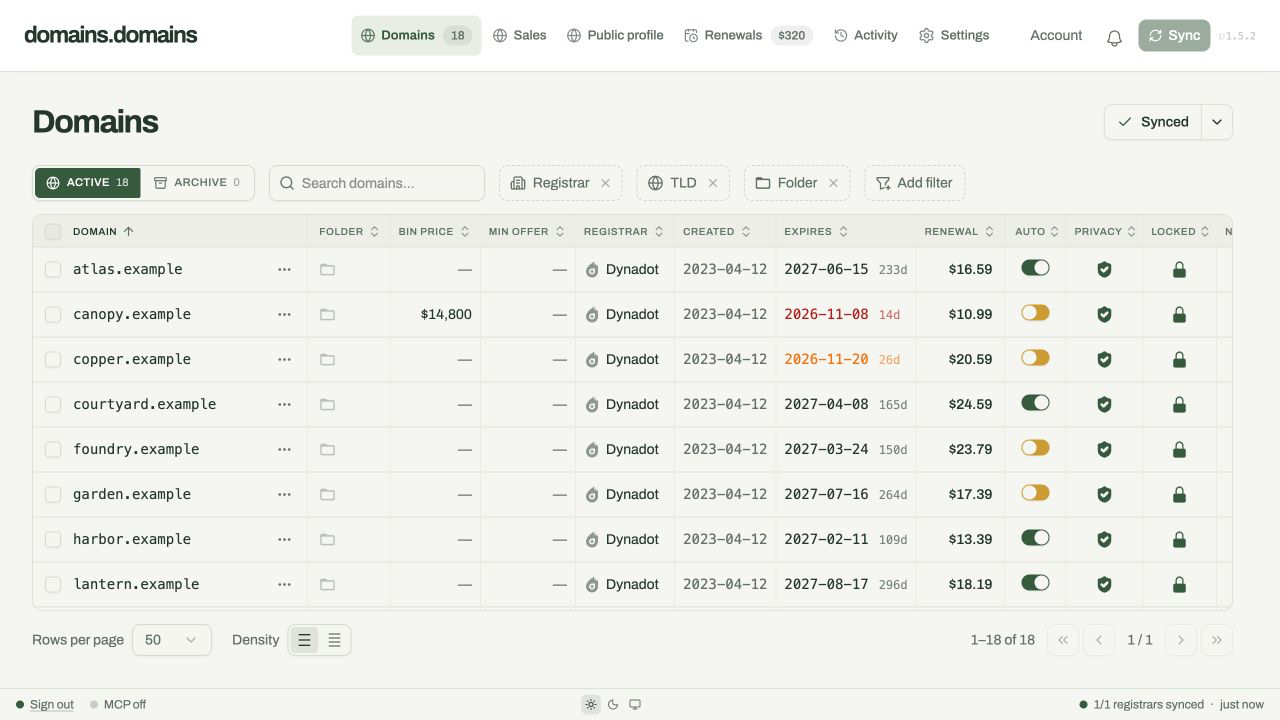
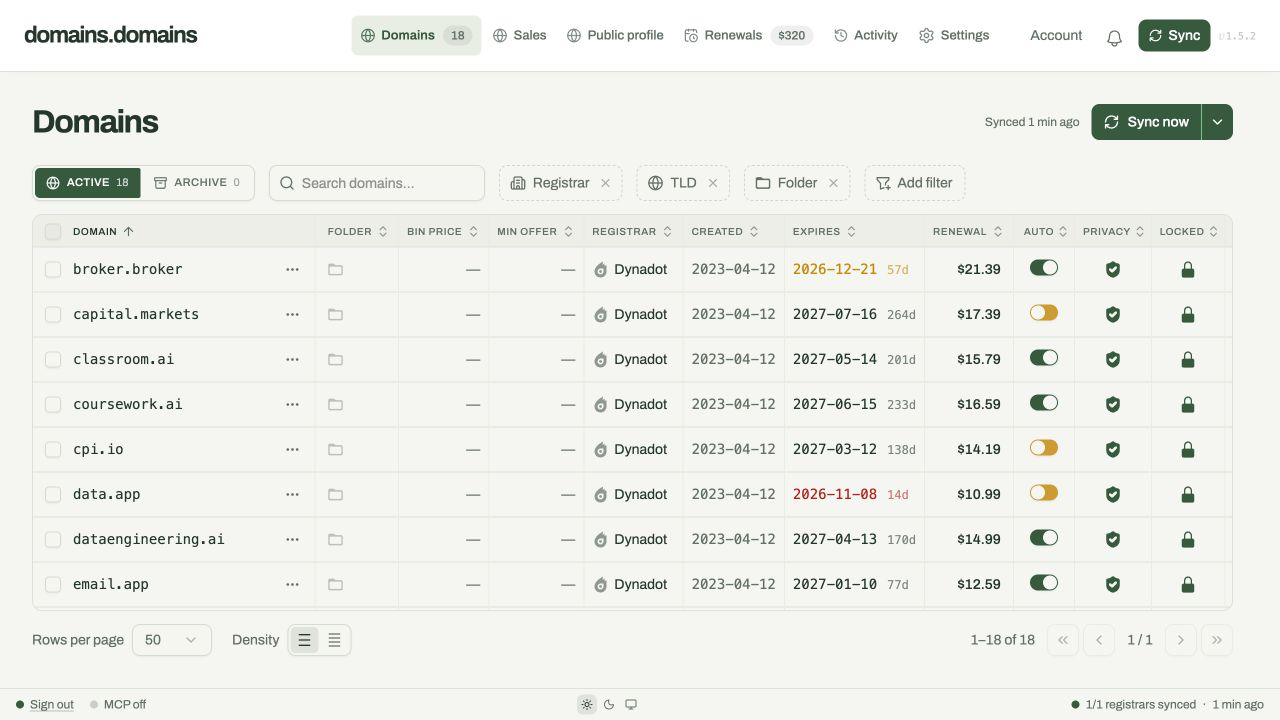
Use owner-authorized generic portfolio names in product previews

diff --git a/src/hosted/landing.ts b/src/hosted/landing.ts
@@ -1,6 +1,6 @@
 import { productImages } from './product-images';
 
-/** Public product previews use synthetic sample data, never customer holdings. */
+/** Owner-authorized public portfolio names with illustrative account data. */
 export const landingStyles = `
 .landing-page{--paper:#f6f7f1;--ink:#1e3529;--muted:#56675b;--line:#d8e0d2;--green:#2a5b3d;background:var(--paper)}
 .landing-page header,.landing-page main,.landing-page footer{max-width:1280px}
@@ -54,10 +54,10 @@ export function landingContent(
     : 'Request free access';
   return `<section class="landing-hero" aria-labelledby="hero-title">
 <div class="hero-copy"><p class="hero-label">Your domain portfolio, connected</p><h1 id="hero-title">All your domains.<span>One view.</span></h1><p>Manage domains across registrars. Check what’s expiring and plan renewal costs. Connect registrar accounts or import your list.</p><div class="hero-actions"><a class="button" href="/signup">${signupLabel} ↗</a><a class="button demo-button" href="${demo}" target="_blank" rel="noopener noreferrer">▷ Try the demo</a></div><div class="access-note"><strong>Free early access · No credit card</strong><br>${registrationOpen ? 'No invitation needed. Your domains stay at your registrars.' : 'By invitation, as accounts become available.'}</div></div>
-<figure class="product-preview"><figcaption class="preview-caption"><span>Domain inventory</span><span class="sample-label">Sample data</span></figcaption><a class="product-shot" href="${productImages.domains.path}" target="_blank" rel="noopener noreferrer" aria-label="Open the domain inventory preview at full size"><img src="${productImages.domains.path}" width="${productImages.domains.width}" height="${productImages.domains.height}" alt="Sample domain inventory with registrar, folder, expiry, renewal and auto-renew columns" fetchpriority="high" decoding="async"><span class="preview-link"><span>View full-size preview</span><span aria-hidden="true">↗</span></span></a><p class="preview-note">Sample domains and prices, not customer holdings or registrar quotes.</p></figure></section>
+<figure class="product-preview"><figcaption class="preview-caption"><span>Domain inventory</span><span class="sample-label">Sample data</span></figcaption><a class="product-shot" href="${productImages.domains.path}" target="_blank" rel="noopener noreferrer" aria-label="Open the domain inventory preview at full size"><img src="${productImages.domains.path}" width="${productImages.domains.width}" height="${productImages.domains.height}" alt="Sample domain inventory with registrar, folder, expiry, renewal and auto-renew columns" fetchpriority="high" decoding="async"><span class="preview-link"><span>View full-size preview</span><span aria-hidden="true">↗</span></span></a><p class="preview-note">Names from our public collection. Account details and statuses are illustrative.</p></figure></section>
 <section class="registrar-line" id="registrars" aria-label="Registrar integrations"><p>Connect supported registrar accounts</p><div class="registrar-names"><span>Dynadot</span><span>Porkbun</span><span>Cloudflare</span><span>GoDaddy</span><details><summary>+ 7 more registrars ↓</summary><p>NameSilo, Spaceship, Namecheap, Gandi.net, NameBright, Name.com and 101domain.</p><p>Provider API requirements apply. Namecheap hosted sync needs an approved fixed IPv4 connection. CSV import works without an API key.</p></details></div></section>
-<section class="product-features" id="features" aria-labelledby="features-title"><figure class="product-preview"><figcaption class="preview-caption"><span>Renewal planning</span><span class="sample-label">Sample data</span></figcaption><a class="product-shot" href="${productImages.renewals.path}" target="_blank" rel="noopener noreferrer" aria-label="Open the renewal planning preview at full size"><img src="${productImages.renewals.path}" width="${productImages.renewals.width}" height="${productImages.renewals.height}" alt="Sample renewal planning with annual estimates and monthly spending" loading="lazy" decoding="async"></a><p class="preview-note">Illustrative renewal estimates. Confirm actual prices and dates with your registrar.</p></figure><div class="feature-copy"><p class="section-label">See it. Then use it.</p><h2 id="features-title">Know what you own.<br>See what’s due.</h2><ul class="feature-list"><li>${icon('<path d="M4 19V5M4 19h16M8 15l3-4 3 2 4-6"/>')}<div><h3>Plan your renewals</h3><p>See upcoming expirations, auto-renew status and estimated spending together.</p></div></li><li>${icon('<path d="M3 7a2 2 0 0 1 2-2h4l2 2h8a2 2 0 0 1 2 2v9a2 2 0 0 1-2 2H5a2 2 0 0 1-2-2z"/>')}<div><h3>Organize and offer names open to inquiries</h3><p>Use folders, notes and asking prices. Publish only the collection you choose.</p></div></li><li>${icon('<path d="M5 5h14v11H9l-4 4V5zM8 9h8M8 12h5"/>')}<div><h3>Ask your AI assistant</h3><p>Optional MCP access, with permissions you approve. Paid agent actions are blocked during early access.</p></div></li></ul></div></section>
-<section class="hosted-sample" aria-labelledby="hosted-sample-title"><div class="hosted-sample-copy"><div><p class="section-label">Domain inquiries</p><h2 id="hosted-sample-title">Your sales pages, reviewed before they go live.</h2></div><div><p>Create private drafts from your portfolio, choose inquiry terms and review publication changes.</p><p>Your public profile, individual sales pages and selected sales shop keep their own selections.</p></div></div><figure><figcaption class="preview-caption"><span>Sales pages</span><span class="sample-label">Sample data</span></figcaption><a class="product-shot" href="${productImages.hostedSales.path}" target="_blank" rel="noopener noreferrer" aria-label="Open the Sales pages preview at full size"><img src="${productImages.hostedSales.path}" width="${productImages.hostedSales.width}" height="${productImages.hostedSales.height}" alt="Sales pages with sample ledger.example, canopy.example and parcel.example listings, filters, prices and publication statuses" loading="lazy" decoding="async"></a><p class="preview-note">Sample domains and prices, not customer holdings or registrar quotes.</p></figure></section>
+<section class="product-features" id="features" aria-labelledby="features-title"><figure class="product-preview"><figcaption class="preview-caption"><span>Renewal planning</span><span class="sample-label">Sample data</span></figcaption><a class="product-shot" href="${productImages.renewals.path}" target="_blank" rel="noopener noreferrer" aria-label="Open the renewal planning preview at full size"><img src="${productImages.renewals.path}" width="${productImages.renewals.width}" height="${productImages.renewals.height}" alt="Renewal planning for selected public portfolio names with illustrative estimates and monthly spending" loading="lazy" decoding="async"></a><p class="preview-note">Illustrative renewal estimates. Confirm actual prices and dates with your registrar.</p></figure><div class="feature-copy"><p class="section-label">See it. Then use it.</p><h2 id="features-title">Know what you own.<br>See what’s due.</h2><ul class="feature-list"><li>${icon('<path d="M4 19V5M4 19h16M8 15l3-4 3 2 4-6"/>')}<div><h3>Plan your renewals</h3><p>See upcoming expirations, auto-renew status and estimated spending together.</p></div></li><li>${icon('<path d="M3 7a2 2 0 0 1 2-2h4l2 2h8a2 2 0 0 1 2 2v9a2 2 0 0 1-2 2H5a2 2 0 0 1-2-2z"/>')}<div><h3>Organize and offer names open to inquiries</h3><p>Use folders, notes and asking prices. Publish only the collection you choose.</p></div></li><li>${icon('<path d="M5 5h14v11H9l-4 4V5zM8 9h8M8 12h5"/>')}<div><h3>Ask your AI assistant</h3><p>Optional MCP access, with permissions you approve. Paid agent actions are blocked during early access.</p></div></li></ul></div></section>
+<section class="hosted-sample" aria-labelledby="hosted-sample-title"><div class="hosted-sample-copy"><div><p class="section-label">Domain inquiries</p><h2 id="hosted-sample-title">Your sales pages, reviewed before they go live.</h2></div><div><p>Create private drafts from your portfolio, choose inquiry terms and review publication changes.</p><p>Your public profile, individual sales pages and selected sales shop keep their own selections.</p></div></div><figure><figcaption class="preview-caption"><span>Sales pages</span><span class="sample-label">Sample data</span></figcaption><a class="product-shot" href="${productImages.hostedSales.path}" target="_blank" rel="noopener noreferrer" aria-label="Open the Sales pages preview at full size"><img src="${productImages.hostedSales.path}" width="${productImages.hostedSales.width}" height="${productImages.hostedSales.height}" alt="Sales page drafts for escrow.pro, mail.app and email.app with inquiry modes and publication controls" loading="lazy" decoding="async"></a><p class="preview-note">Names from our public collection. Account details and statuses are illustrative.</p></figure></section>
 <section class="setup-section" id="overview" aria-labelledby="setup-title"><p class="section-label">How to get started</p><h2 id="setup-title">Your first portfolio, in three steps.</h2><ol class="setup-steps"><li><span class="step-index">01</span><div><h3>${registrationOpen ? 'Create your account' : 'Request access'}</h3><p>${registrationOpen ? 'Verify your email with a sign-in link or code, then open your portfolio.' : 'Use your invitation when a free place becomes available.'}</p></div></li><li><span class="step-index">02</span><div><h3>Connect or import</h3><p>Add an API key in <strong>Settings → Registrars</strong>, or use <strong>Domains → Import domains</strong> for a CSV or pasted list.</p></div></li><li><span class="step-index">03</span><div><h3>Review your domains</h3><p>Search and filter in <strong>Domains</strong>. Open <strong>Renewals</strong> to check dates and estimated costs.</p></div></li></ol></section>
 <section class="faq-section" id="faq" aria-label="Hosting and access"><dl class="faq-list"><div><dt>Do my domains move?</dt><dd>No. They stay with your registrar, which handles registrations, renewals and billing.</dd></div><div><dt>Where are my API keys?</dt><dd>Encrypted in your separate Cloudflare database. domains.domains operates the service and holds the encryption keys. <a href="/privacy">Privacy details ↗</a></dd></div><div><dt>What does hosting cost?</dt><dd>Free during early access, subject to capacity. Registrar charges are separate. <a href="/terms">Terms ↗</a></dd></div></dl></section>
 <section class="access-strip" aria-labelledby="access-title"><div><h2 id="access-title">Bring your domains together.</h2><p>Your portfolio. Hosting handled for you. <a href="/source">Open-source SaaS layer ↗</a></p></div><a class="button" href="/signup">${signupLabel} ↗</a></section>

diff --git a/src/hosted/product-images.ts b/src/hosted/product-images.ts
@@ -1,19 +1,19 @@
-/** Branded SaaS previews use synthetic .example fixtures, never private holdings. */
+/** Owner-authorized public portfolio names; account data and statuses are illustrative. */
 export const productImages = {
   hostedSales: {
-    path: '/product/hosted-sales-5c8170de15bc.png',
-    file: '/dombot-hosted-sales.png',
-    width: 2560,
-    height: 1440,
+    path: '/product/hosted-sales-5065c3c6637e.png',
+    file: '/portfolio-sales.png',
+    width: 1280,
+    height: 720,
   },
   domains: {
-    path: '/product/domains-8d8ae08e58a7.png',
+    path: '/product/domains-cbd31ef738fd.png',
     file: '/portfolio-inventory.png',
     width: 1280,
     height: 720,
   },
   renewals: {
-    path: '/product/renewals-783275fc3973.png',
+    path: '/product/renewals-441fc0b4819f.png',
     file: '/portfolio-renewals.png',
     width: 1280,
     height: 720,
@@ -22,6 +22,10 @@ export const productImages = {
 
 // Existing open pages can still request their lazy-loaded, immutable previews.
 export const previousProductImages = [
+  {
+    path: '/product/hosted-sales-5c8170de15bc.png',
+    file: '/dombot-hosted-sales.png',
+  },
   {
     path: '/product/domains-ecf103a893af.png',
     file: '/dombot-domains.png',

diff --git a/src/hosted/views.test.ts b/src/hosted/views.test.ts
@@ -137,16 +137,15 @@ describe('public website brand and product clarity', () => {
     const html = home(true);
     expect(html).toContain('Sample data');
     expect(html).toContain(
-      'Sample domains and prices, not customer holdings or registrar quotes.',
+      'Names from our public collection. Account details and statuses are illustrative.',
     );
     expect(html.match(/<img\b/g)).toHaveLength(3);
+    expect(html).not.toContain('.example');
     expect(html).toContain('href="https://demo.dombot.ai/"');
     expect(html).toContain('Domain inventory');
     expect(html).toContain('Renewal planning');
     const main = html.match(/<main[^>]*>([\s\S]*?)<\/main>/)?.[1] ?? '';
-    expect(main.replace(/<[^>]*>/g, '')).not.toMatch(
-      /dombot|upstream|original demo/i,
-    );
+    expect(main).not.toMatch(/>[^<]*(?:dombot|upstream|original demo)/i);
     expect(html).toContain('href="/signup"');
     expect(html).toContain('href="/login"');
     expect(html).toContain('href="/domains"');

diff --git a/AGENTS.md b/AGENTS.md
@@ -5,7 +5,7 @@
 - The owner explicitly rejected the `d.d` monogram and its conference-logo variants. Never use that mark in shipped UI, previews, or new promotional assets. Historical files under `assets/brand/conference-2026` are not approval to reuse it.
 - Use the full `domains.domains` text wordmark on the public website and account pages. Read `.impeccable.md` for the current design direction.
 - Lead customer-facing copy with domains.domains and product tasks. Keep upstream attribution in the shared footer, source and legal notices; do not repeat it in hero text, screenshot captions, demo buttons or onboarding instructions.
-- Product illustrations must visibly say they use sample data. Never use private registrar holdings, account details or invented customer endorsements as marketing proof.
+- Product previews may use owner-authorized generic domains from the public portfolio. Prefer strong dictionary words and descriptive names; avoid brand-like holdings and .example placeholders. Keep illustrative account details, renewal estimates and draft statuses labelled as sample data; do not invent asking prices or imply live publication. Never expose private registrar records or invented customer endorsements.
 - Use “account” for sign-in and access, and “portfolio” for domain holdings. Keep internal immutable tenant identities unchanged. Public registration requires verified email, published Terms and Privacy with the confirmed operator identity, and prequalified capacity; registrar charges are separate. Do not advertise open registration while these gates are off.
 
 - Use inquiry-focused copy throughout public and account UI: “Domain inquiries”, “Get in touch” and “Open to inquiries”. Do not use availability slogans. Keep internal schema identifiers stable. Public inquiry pages refer to the contact or domain owner.

diff --git a/.impeccable.md b/.impeccable.md
@@ -13,7 +13,7 @@ The owner rejected the d.d logo and the previous oversized-copy landing page. Us
 - Show what the product does in the first screen, with a clearly labelled example portfolio.
 - Use a readable full-name wordmark; no d.d monogram or alternate lettermark.
 - Keep marketing secondary to clear actions: sign up, sign in, explore features and visit the public collection.
-- Use reserved .example names for invented illustrations. Use branded SaaS captures with synthetic sample data; retain upstream credit in the shared footer, source offer and legal notices. Never present them as hosted customer holdings or actual quotes.
+- Use owner-approved generic domains from the publicly listed portfolio in marketing previews, rather than .example names or brand-like holdings. Use branded SaaS captures; label illustrative registrar details, renewal estimates and draft statuses. Do not invent asking prices or imply live publication. Retain upstream credit in the shared footer, source offer and legal notices.
 - Keep mobile content complete and readable, and respect existing authentication and release constraints.
 
 ## Product language and attribution
